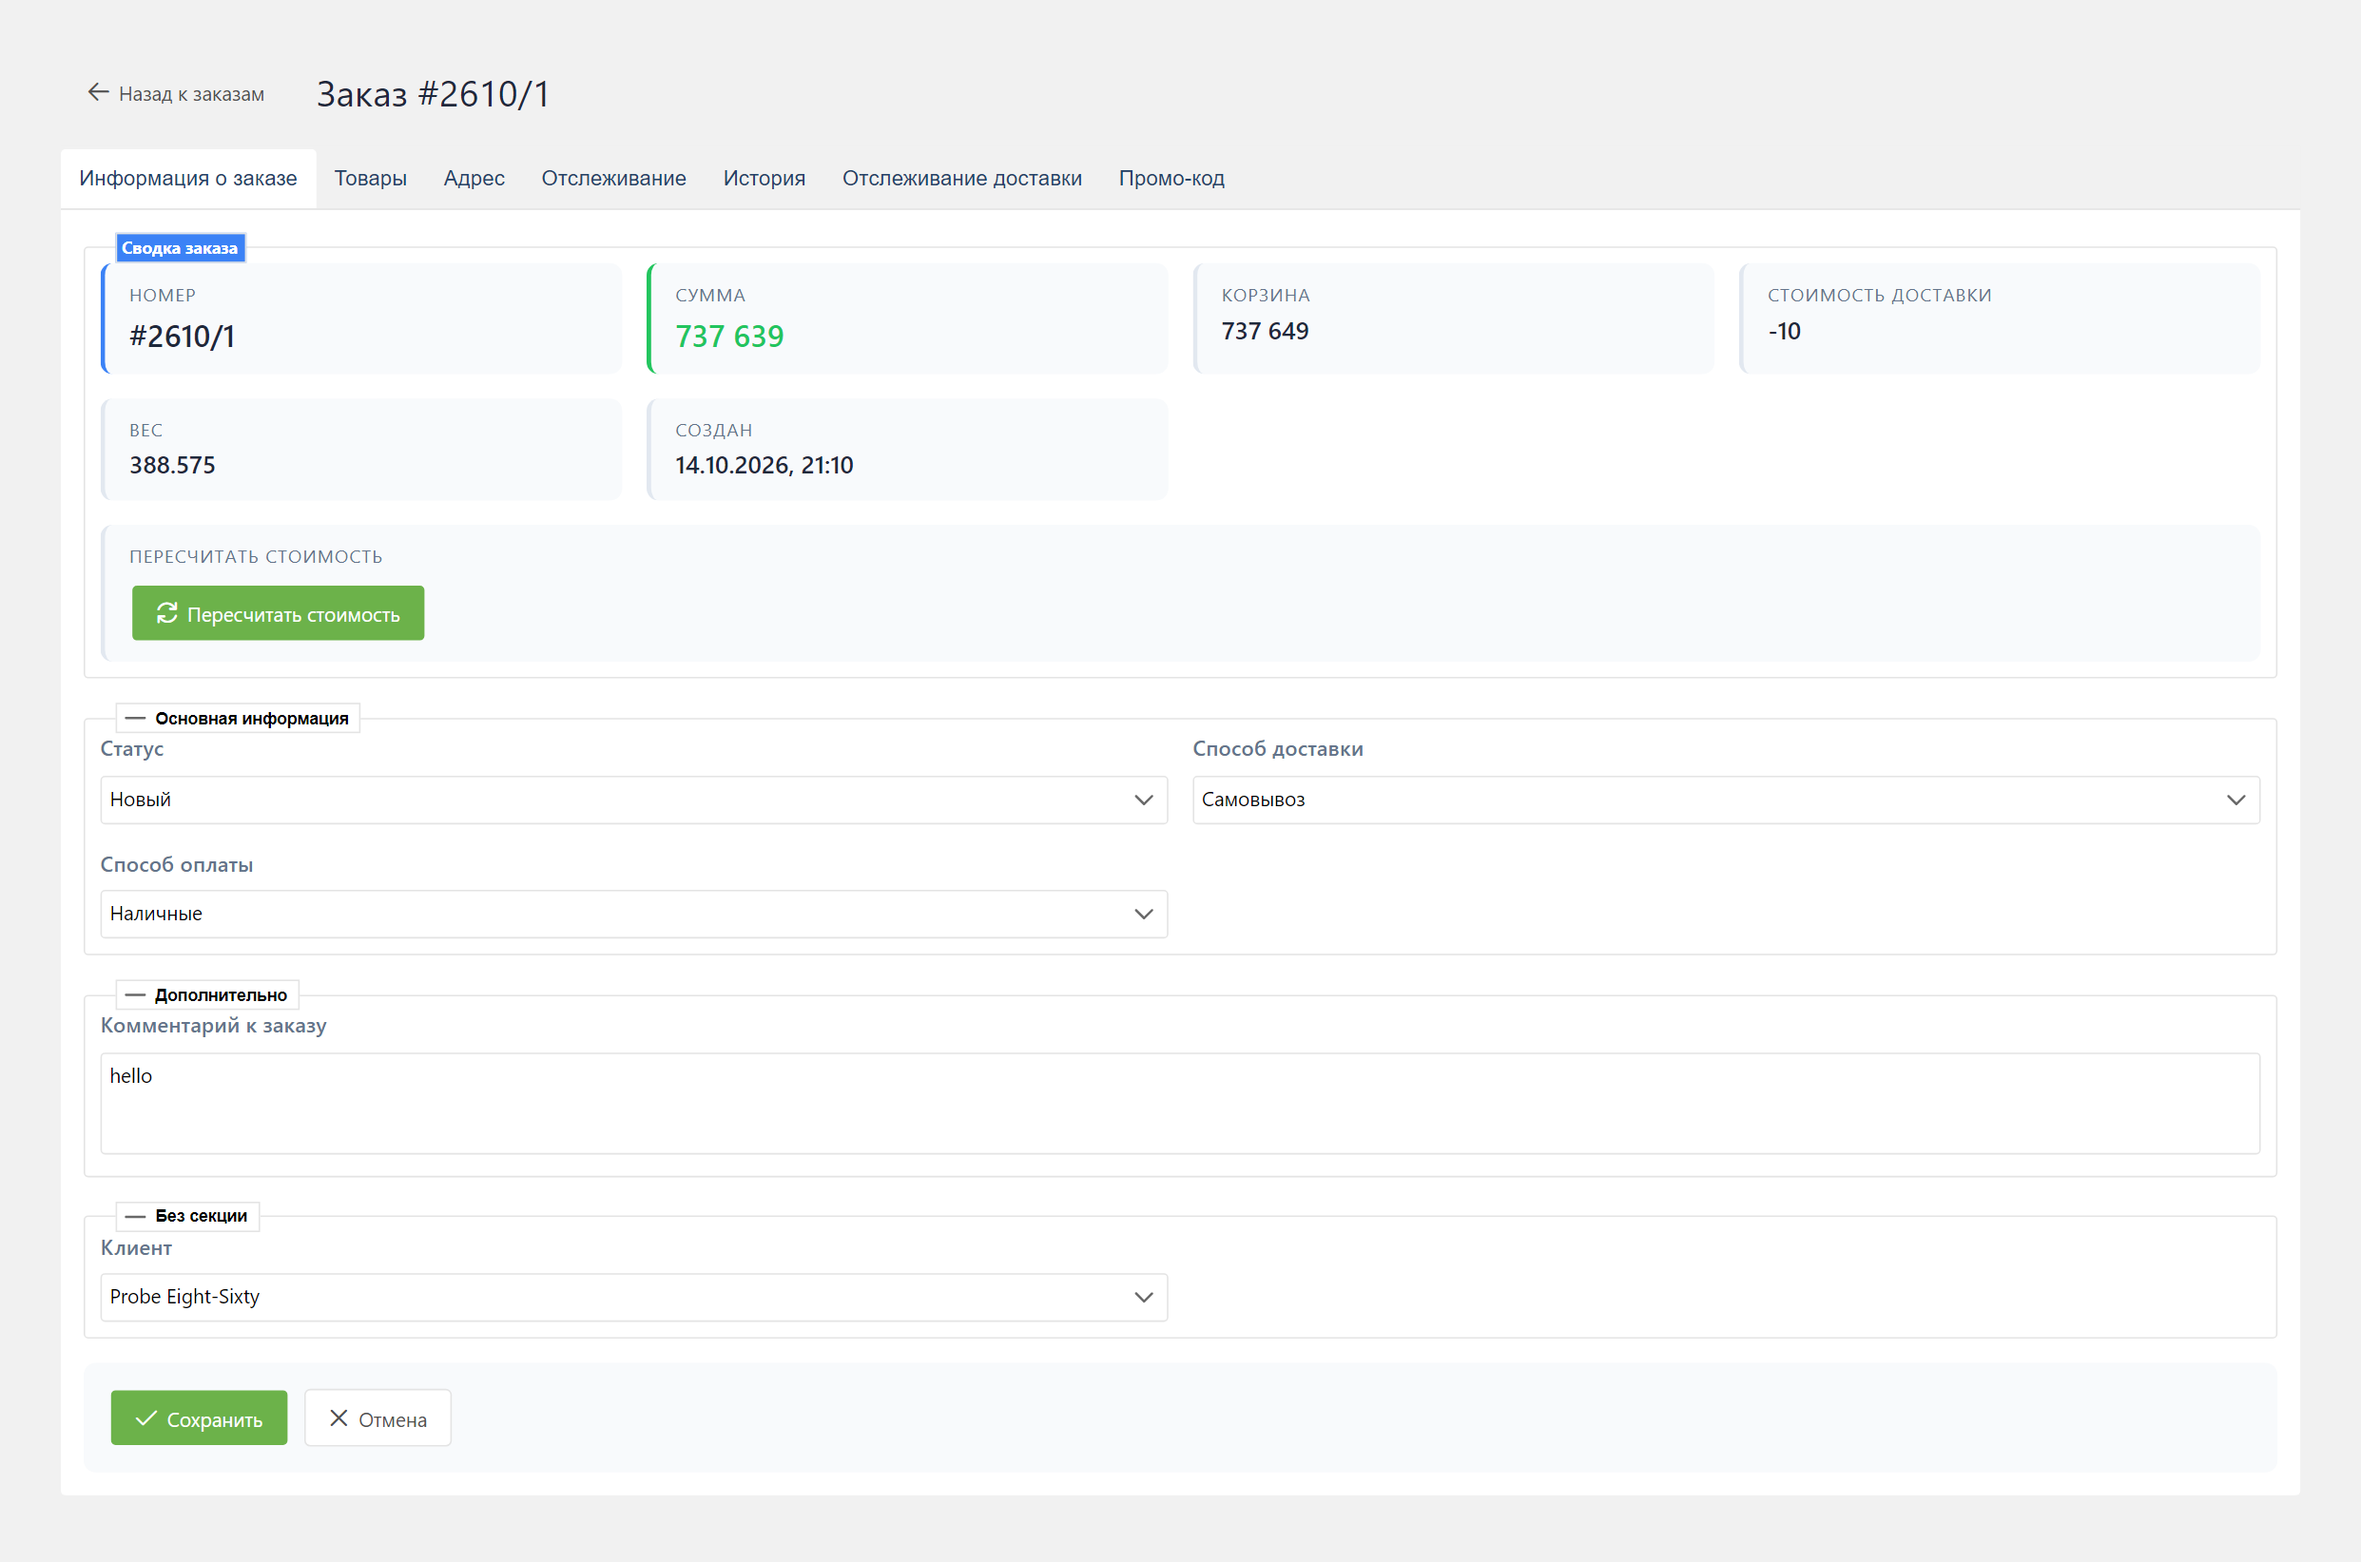
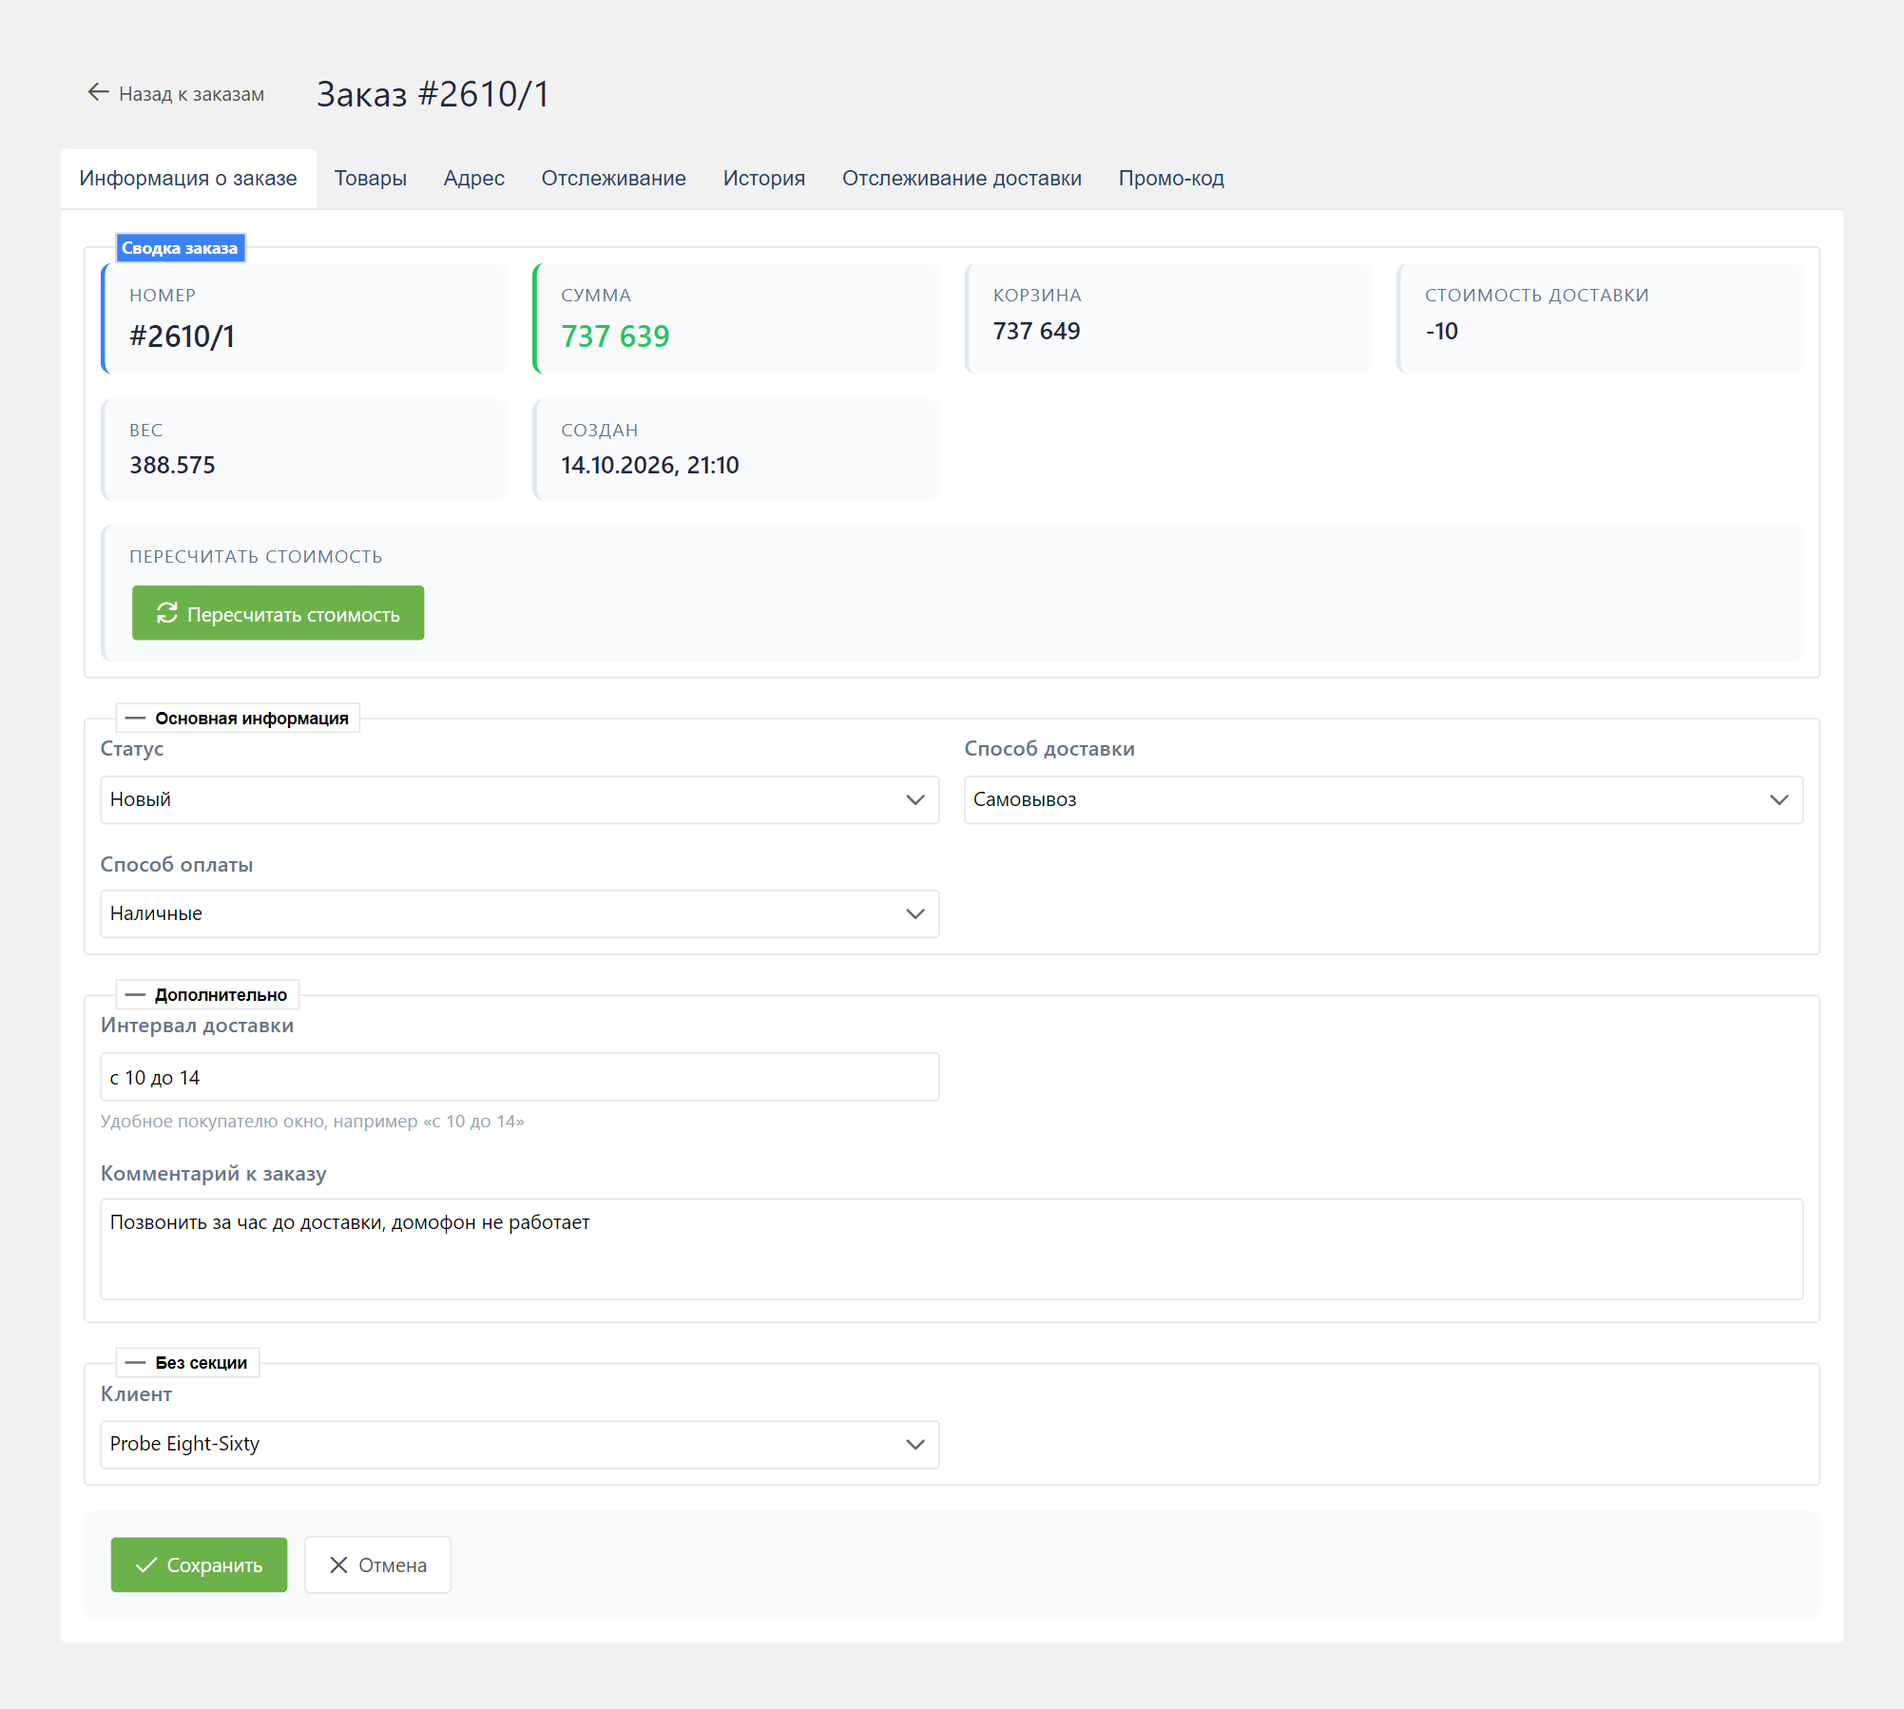
docs(minishop3): снять скриншоты витрины и секции дополнительных полей заказа
Девять кадров витрины: каталог, страница товара, корзина, оформление, «Спасибо за заказ», форма входа в кабинет, профиль, адреса, история заказов. Плюс карточка заказа с секцией дополнительных полей.

На стенде заведены данные под кадры: товар переведён на шаблон «Страница товара» (стоял на шаблоне категории, поэтому страница была пустой), ему проставлены остаток, старая цена и описание; в корзину положены три позиции; создан покупатель demo.customer@ms3.test с двумя адресами и тремя заказами; у msOrder заведено дополнительное поле delivery_window и размещено в секции «Дополнительно».

В русскую interface/orders.md добавлены обе картинки: в английской паре они были, в русской нет.

diff --git a/docs/components/minishop3/interface/orders.md b/docs/components/minishop3/interface/orders.md
@@ -28,6 +28,8 @@ description: Список заказов в админке, черновики, 
 
 ## Карточка
 
+![Карточка заказа](/components/minishop3/screenshots/mgr-order.png)
+
 Карточка `OrderView` держит вкладки (ключи `useOrderPluginTabs`):
 
 | Ключ | Содержимое |
@@ -53,6 +55,8 @@ description: Список заказов в админке, черновики, 
 Свои колонки на заказе создают через [свои поля](/components/minishop3/manager/examples/order-custom-field). В утилите «Свои поля» класс хранится как `MiniShop3\Model\msOrder`.
 
 Карточка заказа запрашивает `GET /api/mgr/extra-fields?class=msOrder` (короткий алиас), а фильтр в контроллере сравнивает строку точно. Поле создаётся корректно, но секция на заказе может остаться пустой — известная проблема [MiniShop3#812](https://github.com/modx-pro/MiniShop3/issues/812). Обход: создавать поле с классом `msOrder` или выровнять query на FQCN в коде.
+
+![Секция дополнительных полей на карточке заказа](/components/minishop3/screenshots/mgr-order-extra-field.png)
 
 Сохранение: `PUT /api/mgr/orders/{id}` ключом поля на верхнем уровне JSON (`msorder_save`). Чтение схемы своих полей (`GET /api/mgr/extra-fields`) доступно любому авторизованному менеджеру. Право `mssetting_save` нужно только на создание, правку и удаление полей.
 

diff --git a/docs/components/minishop3/frontend/catalog.md b/docs/components/minishop3/frontend/catalog.md
@@ -7,7 +7,7 @@ title: Каталог товаров
 
 Для SPA или мобильного клиента без msProducts используйте публичный Web API: `GET /api/v1/product/list`, `GET /api/v1/category/list` / `tree`, `GET /api/v1/product/filters`. Ответ каталога проходит через `ProductCatalogService` с allowlist полей. См. [Web API: каталог](/components/minishop3/development/web-api/catalog).
 
-<!-- ![Каталог на фронтенде](/components/minishop3/screenshots/fe-catalog.png) -->
+![Каталог на фронтенде](/components/minishop3/screenshots/fe-catalog.png)
 
 [![](https://file.modx.pro/files/e/4/2/e42014d3fca7e7073ef6e30d7709cff6s.jpg)](https://file.modx.pro/files/e/4/2/e42014d3fca7e7073ef6e30d7709cff6.png)
 

diff --git a/docs/en/components/minishop3/frontend/catalog.md b/docs/en/components/minishop3/frontend/catalog.md
@@ -7,7 +7,7 @@ The catalog is the main store page that displays a list of products from a categ
 
 For SPA or a mobile client without msProducts use the public Web API: `GET /api/v1/product/list`, `GET /api/v1/category/list` / `tree`, `GET /api/v1/product/filters`. The catalog response goes through `ProductCatalogService` with a field allowlist. See [Web API: catalog](/en/components/minishop3/development/web-api/catalog).
 
-<!-- ![Frontend catalog](/components/minishop3/screenshots/fe-catalog.png) -->
+![Frontend catalog](/components/minishop3/screenshots/fe-catalog.png)
 
 [![](https://file.modx.pro/files/e/4/2/e42014d3fca7e7073ef6e30d7709cff6s.jpg)](https://file.modx.pro/files/e/4/2/e42014d3fca7e7073ef6e30d7709cff6.png)
 

diff --git a/docs/components/minishop3/frontend/thanks.md b/docs/components/minishop3/frontend/thanks.md
@@ -5,7 +5,7 @@ title: Спасибо за заказ
 
 Страница благодарности открывается после успешного оформления заказа. Показывает детали заказа и дальнейшие действия покупателя.
 
-<!-- ![Страница «Спасибо за заказ»](/components/minishop3/screenshots/fe-thanks.png) -->
+![Страница «Спасибо за заказ»](/components/minishop3/screenshots/fe-thanks.png)
 
 [![](https://file.modx.pro/files/e/9/3/e936fc08c9cbf5e83cae96910ae66fd7s.jpg)](https://file.modx.pro/files/e/9/3/e936fc08c9cbf5e83cae96910ae66fd7.png)
 

diff --git a/docs/components/minishop3/frontend/product.md b/docs/components/minishop3/frontend/product.md
@@ -5,7 +5,7 @@ title: Страница товара
 
 Страница товара — подробное представление одного товара: галерея, цена, опции и форма добавления в корзину.
 
-<!-- ![Страница товара на фронтенде](/components/minishop3/screenshots/fe-product.png) -->
+![Страница товара на фронтенде](/components/minishop3/screenshots/fe-product.png)
 
 [![](https://file.modx.pro/files/2/5/a/25aa24b8959c026826d65090b57111c8s.jpg)](https://file.modx.pro/files/2/5/a/25aa24b8959c026826d65090b57111c8.png)
 

diff --git a/docs/components/minishop3/manager/examples/order-custom-field.md b/docs/components/minishop3/manager/examples/order-custom-field.md
@@ -57,7 +57,7 @@ GET /api/mgr/extra-fields?class=MiniShop3\Model\msOrder
 3. Введите текст в **Комментарий менеджера**.
 4. Сохраните карточку.
 
-<!-- ![Секция дополнительных полей на карточке заказа](/components/minishop3/screenshots/mgr-order-extra-field.png) -->
+![Секция дополнительных полей на карточке заказа](/components/minishop3/screenshots/mgr-order-extra-field.png)
 
 Vue-форма отправляет значение на верхнем уровне тела запроса:
 

diff --git a/docs/components/minishop3/frontend/customer-orders.md b/docs/components/minishop3/frontend/customer-orders.md
@@ -3,7 +3,7 @@ title: История заказов
 ---
 # История заказов
 
-<!-- ![ЛК: история заказов](/components/minishop3/screenshots/fe-customer-orders.png) -->
+![ЛК: история заказов](/components/minishop3/screenshots/fe-customer-orders.png)
 
 Страница истории заказов покупателя. Отображает список всех заказов с фильтрацией по статусу и пагинацией, а также детальную информацию о конкретном заказе.
 

diff --git a/docs/components/minishop3/frontend/cart.md b/docs/components/minishop3/frontend/cart.md
@@ -5,7 +5,7 @@ title: Корзина
 
 Параметры вызова, плейсхолдеры и структура данных — в справочнике сниппета [msCart](/components/minishop3/snippets/mscart).
 
-<!-- ![Корзина на фронтенде](/components/minishop3/screenshots/fe-cart.png) -->
+![Корзина на фронтенде](/components/minishop3/screenshots/fe-cart.png)
 
 [![](https://file.modx.pro/files/3/f/b/3fb27bc4fb74bcbbfad003ba2165498cs.jpg)](https://file.modx.pro/files/3/f/b/3fb27bc4fb74bcbbfad003ba2165498c.png)
 

diff --git a/docs/components/minishop3/manager/extra-fields/cookbook.md b/docs/components/minishop3/manager/extra-fields/cookbook.md
@@ -123,7 +123,7 @@ Repeater в CSV-импорт не попадает.
 
 Сохранение: ключ поля на верхнем уровне `PUT /api/mgr/orders/{id}` (см. [пример](/components/minishop3/manager/examples/order-custom-field)).
 
-<!-- ![Дополнительные поля заказа на карточке](/components/minishop3/screenshots/mgr-order-extra-field.png) -->
+![Дополнительные поля заказа на карточке](/components/minishop3/screenshots/mgr-order-extra-field.png)
 
 ## API appendix
 

diff --git a/docs/components/minishop3/frontend/customer-addresses.md b/docs/components/minishop3/frontend/customer-addresses.md
@@ -3,7 +3,7 @@ title: Адреса доставки
 ---
 # Адреса доставки
 
-<!-- ![ЛК: адреса](/components/minishop3/screenshots/fe-customer-addresses.png) -->
+![ЛК: адреса](/components/minishop3/screenshots/fe-customer-addresses.png)
 
 Страница управления адресами доставки покупателя. Позволяет создавать, редактировать, удалять адреса и устанавливать адрес по умолчанию.
 

diff --git a/docs/en/components/minishop3/interface/orders.md b/docs/en/components/minishop3/interface/orders.md
@@ -44,7 +44,7 @@ Create custom order columns via [extra fields](/en/components/minishop3/manager/
 
 Save: `PUT /api/mgr/orders/{id}` with the field key at the top level of the JSON body (`msorder_save`). Extra-field metadata loads only with `mssetting_save`.
 
-<!-- ![Additional order fields section on the order card](/components/minishop3/screenshots/mgr-order-extra-field.png) -->
+![Additional order fields section on the order card](/components/minishop3/screenshots/mgr-order-extra-field.png)
 
 ### Cost recalculation
 
